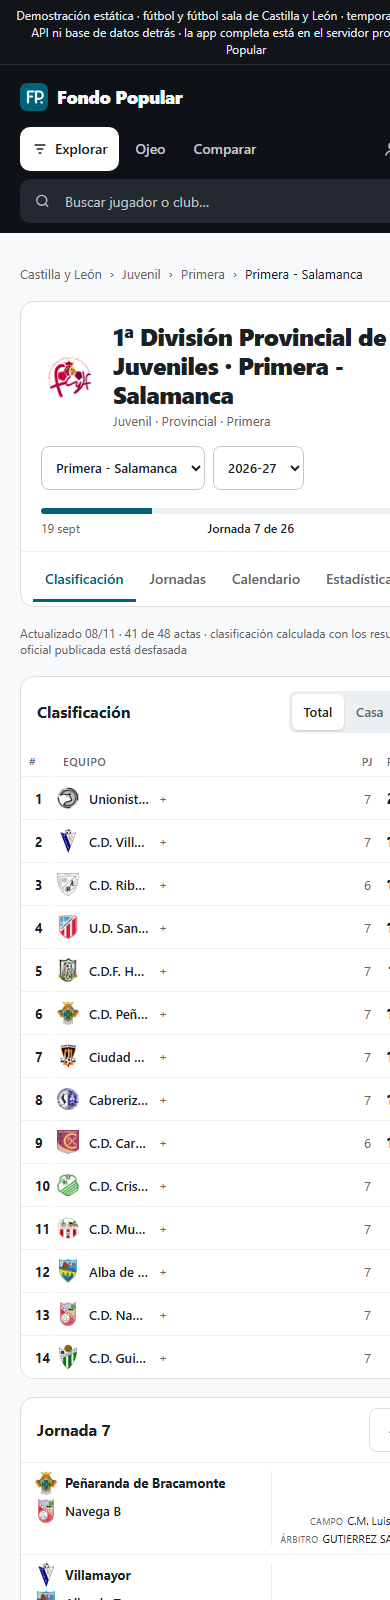
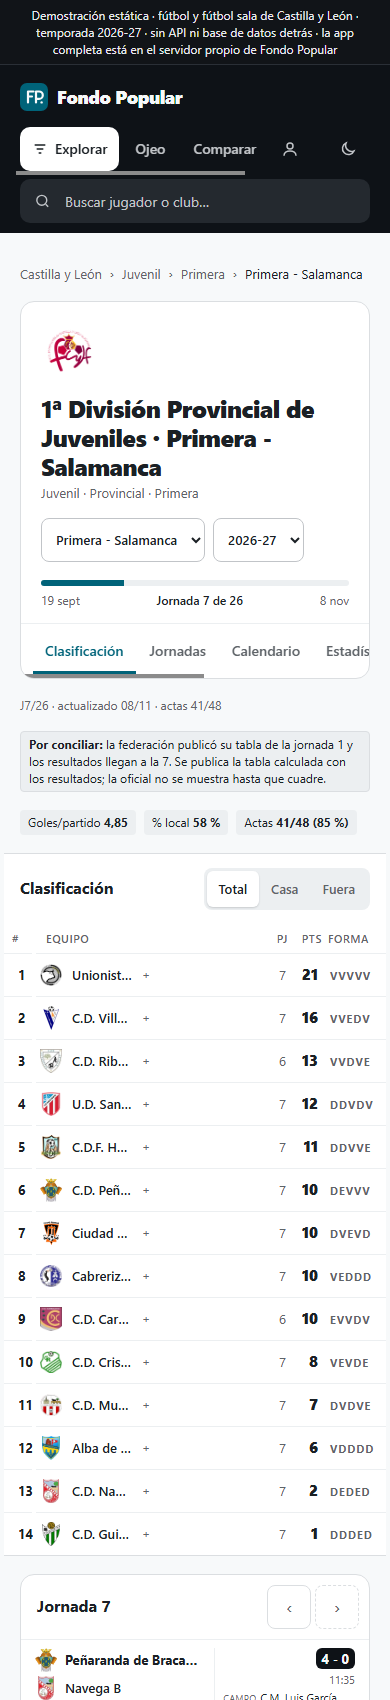
ficha: aviso «por conciliar» con motivo, tabla a todo el ancho en movil, capturas reales a 390 px (CDP) y CASO con las reglas de coherencia

diff --git a/apps/web/src/app/explorar/competicion/[id]/page.tsx b/apps/web/src/app/explorar/competicion/[id]/page.tsx
@@ -211,6 +211,12 @@ async function Contenido({ grupo, jornadaPedida, partidos }: {
   // ¿La tabla oficial publicada coincide con la calculada? Si está desfasada se dice, y no se publica la oficial.
   const oficialDesfasada = clasificacion.some((f) => f.oficial_jornada != null
     && (f.oficial_jugados !== f.jugados || f.oficial_puntos !== f.puntos));
+  // Motivo del «por conciliar»: la tabla oficial publicada es de otra jornada que los resultados.
+  const oficialJornada = clasificacion.find((f) => f.oficial_jornada != null)?.oficial_jornada ?? null;
+  const jornadaResultados = clasificacion[0]?.jornada ?? null;
+  const motivoConciliar = oficialJornada !== null && jornadaResultados !== null && oficialJornada !== jornadaResultados
+    ? `la federación publicó su tabla de la jornada ${oficialJornada} y los resultados llegan a la ${jornadaResultados}`
+    : 'la tabla oficial publicada no coincide con los resultados';
   const fechaActualizado = frescura && frescura.ultimo
     ? (() => { const d = new Date(frescura.ultimo); return String(d.getDate()).padStart(2, '0') + '/' + String(d.getMonth() + 1).padStart(2, '0'); })()
     : null;
@@ -238,7 +244,12 @@ async function Contenido({ grupo, jornadaPedida, partidos }: {
       {lineaFrescura && (
         <p className="m-0 basis-full text-nota text-[var(--texto-suave)]">
           {lineaFrescura}
-          {oficialDesfasada ? ' · clasificación calculada con los resultados; la tabla oficial publicada está desfasada' : ''}
+
+        </p>
+      )}
+      {oficialDesfasada && (
+        <p role="status" className="m-0 basis-full rounded-[var(--radius-sm)] border border-[var(--borde)] bg-[var(--fondo-sutil)] px-2 py-1 text-nota text-[var(--texto)]">
+          <strong>Por conciliar:</strong> {motivoConciliar}. Se publica la tabla calculada con los resultados; la oficial no se muestra hasta que cuadre.
         </p>
       )}
       {kpi && (

diff --git a/apps/web/src/componentes/competicion/Clasificacion.tsx b/apps/web/src/componentes/competicion/Clasificacion.tsx
@@ -38,7 +38,7 @@ export function Clasificacion({ filas, rachas, zonas, equipos }: {
   const fijas = 'sticky z-[var(--capa-pegajoso)] bg-[var(--fondo-elevado)]';
   return (
     <section aria-labelledby="clasificacion"
-      className="min-w-0 w-full flex-[999_1_auto] overflow-hidden md:flex-[999_1_640px] rounded-[var(--radius-tarjeta)] border border-[var(--borde)] bg-[var(--fondo-elevado)]">
+      className="-mx-4 min-w-0 w-full flex-[999_1_auto] overflow-hidden rounded-none border-x-0 md:mx-0 md:flex-[999_1_640px] md:rounded-[var(--radius-tarjeta)] md:border-x rounded-[var(--radius-tarjeta)] border border-[var(--borde)] bg-[var(--fondo-elevado)]">
       <div className="flex flex-wrap items-center justify-between gap-2.5 px-4 py-3.5">
         <h2 id="clasificacion" className="m-0 text-bloque font-bold text-[var(--texto)]">Clasificación</h2>
         <div role="group" aria-label="Vista" className="flex rounded-[var(--radius-control)] bg-[var(--fondo-sutil)] p-[3px]">

diff --git a/docs/CASO-FACYLF.md b/docs/CASO-FACYLF.md
@@ -85,6 +85,27 @@ no se pueden inventar.
 6. **Lo que no se puede cerrar, se dice.** Las ediciones sin origen o con identidad dudosa están contadas y
    documentadas; no se rellenan para engordar el porcentaje.
 
+
+### Reglas de coherencia aplicadas (panel de calidad)
+
+Además de la validación de la importación, el canónico se audita con tres reglas calculadas **desde los partidos**
+de cada grupo:
+
+| Regla | Qué detecta | Descuadre |
+|---|---|---|
+| PJ = V + E + D | partidos jugados que no cuadran con los resultados | `descuadre_pj` |
+| puntos = 3·V + E | puntuación inventada o mal sumada | `descuadre_puntos` |
+| Σ goles a favor = Σ goles en contra | goles perdidos o duplicados | `descuadre_goles` |
+
+Se ejecuta con `scripts/claude/panel-calidad.ps1 -Temporada <temporada>`, que cuenta los grupos **OK/KO** y deja el
+detalle en JSON. Medido el 11/11/2026: **2026-27 · 260 grupos, 260 OK, 0 KO** y **2018-19 · 507 grupos, 507 OK,
+0 KO**. En las tres competiciones principales los tres descuadres dan **0** (grupos 44, 2939 y 3947).
+
+Si un grupo tuviera descuadre, la ficha **no publica la tabla como oficial**: muestra el aviso de calidad y la tabla
+calculada. Y si la tabla oficial de la federación no coincide con los resultados, la ficha la marca **«por conciliar»**
+con el motivo (por ejemplo: «la federación publicó su tabla de la jornada 1 y los resultados llegan a la 7»), en vez
+de enseñar dos cifras que se contradicen.
+
 ## 5 · Lo que demuestra este caso
 
 - Un ETL real desde fuentes federativas heterogéneas (HTML, PDF, paquetes, APIs) hasta un **modelo relacional
